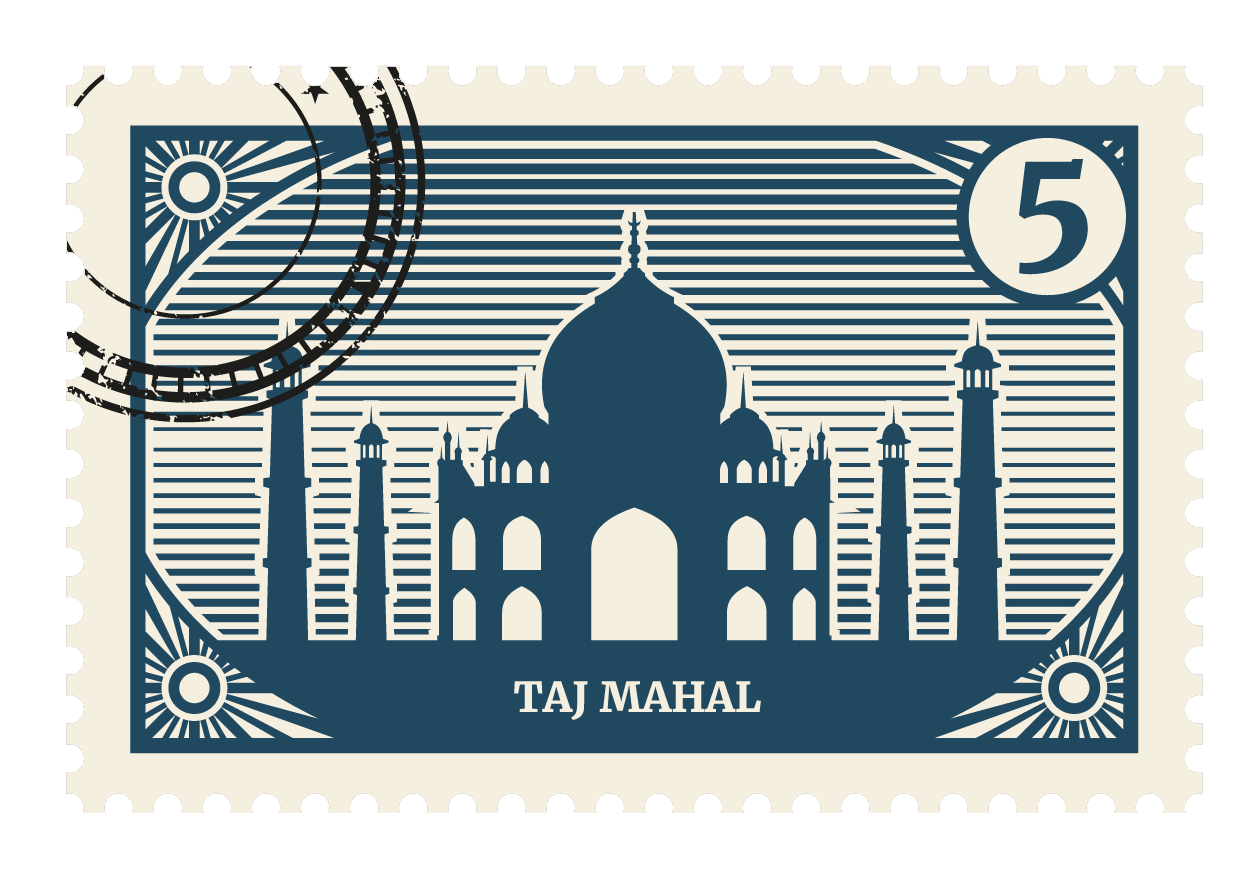
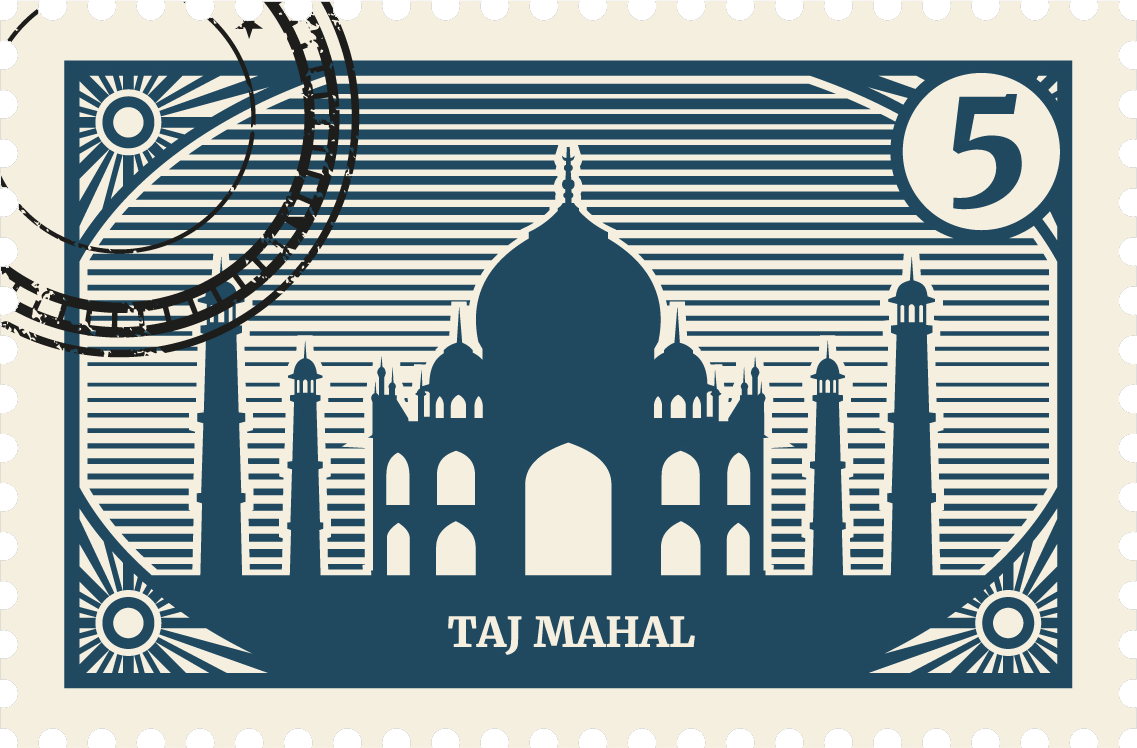
ajouter les photos des timbres dans html

diff --git a/catalogue.html b/catalogue.html
@@ -71,15 +71,15 @@
           <div class="subscribeButton">
             <label for="emailInput">Abonnez-vous à l'infolettre</label>
             <input type="email" id="emailInput" placeholder="Courriel" />
-            <button id="subscribeButton"> Enter </button>
+            <button id="subscribeButton">Enter</button>
           </div>
         </aside>
         <section class="catalogue">
           <section class="grid-cards catalogue-encheres">
             <div class="card">
-              <div class="card__title"><h2>Titre</h2></div>
+              <div class="card__title"><h2>USA</h2></div>
               <div class="card__image">
-                <img src="/assets/img/logos/logoLord.png" alt="" />
+                <img src="/assets/img/stamp/usa.png" alt="" />
               </div>
               <div class="card__id">Id:<small>878787878</small></div>
               <div class="card__prix">Prix: <small>8950$</small></div>
@@ -91,24 +91,9 @@
               </div>
             </div>
             <div class="card">
-              <div class="card__title"><h2>Titre</h2></div>
+              <div class="card__title"><h2>Czech-Republic</h2></div>
               <div class="card__image">
-                <img src="/assets/img/logos/logoLord.png" alt="" />
-              </div>
-              <div class="card__id">Id:<small>878787878</small></div>
-              <div class="card__prix">Prix: <small>8950$</small></div>
-              <div class="hourglass">
-                <div class="card__temps">
-                  Temps restant: <small> 6h39min</small>
-                </div>
-                <i class="fa-regular fa-hourglass-half"></i>
-              </div>
-            </div>
-
-            <div class="card">
-              <div class="card__title"><h2>Titre</h2></div>
-              <div class="card__image">
-                <img src="/assets/img/logos/logoLord.png" alt="" />
+                <img src="/assets/img/stamp/czech-republic.png" alt="" />
               </div>
               <div class="card__id">Id:<small>878787878</small></div>
               <div class="card__prix">Prix: <small>8950$</small></div>
@@ -121,9 +106,9 @@
             </div>
 
             <div class="card">
-              <div class="card__title"><h2>Titre</h2></div>
+              <div class="card__title"><h2>London</h2></div>
               <div class="card__image">
-                <img src="/assets/img/logos/logoLord.png" alt="" />
+                <img src="/assets/img/stamp/england-london.png" alt="" />
               </div>
               <div class="card__id">Id:<small>878787878</small></div>
               <div class="card__prix">Prix: <small>8950$</small></div>
@@ -136,9 +121,9 @@
             </div>
 
             <div class="card">
-              <div class="card__title"><h2>Titre</h2></div>
+              <div class="card__title"><h2>Navajo</h2></div>
               <div class="card__image">
-                <img src="/assets/img/logos/logoLord.png" alt="" />
+                <img src="/assets/img/stamp/navajo.png" alt="" />
               </div>
               <div class="card__id">Id:<small>878787878</small></div>
               <div class="card__prix">Prix: <small>8950$</small></div>
@@ -151,9 +136,9 @@
             </div>
 
             <div class="card">
-              <div class="card__title"><h2>Titre</h2></div>
+              <div class="card__title"><h2>Taj-Mahal</h2></div>
               <div class="card__image">
-                <img src="/assets/img/logos/logoLord.png" alt="" />
+                <img src="/assets/img/stamp/taj-mahal.png" alt="" />
               </div>
               <div class="card__id">Id:<small>878787878</small></div>
               <div class="card__prix">Prix: <small>8950$</small></div>
@@ -166,23 +151,9 @@
             </div>
 
             <div class="card">
-              <div class="card__title"><h2>Titre</h2></div>
+              <div class="card__title"><h2>San-Francisco</h2></div>
               <div class="card__image">
-                <img src="/assets/img/logos/logoLord.png" alt="" />
-              </div>
-              <div class="card__id">Id:<small>878787878</small></div>
-              <div class="card__prix">Prix: <small>8950$</small></div>
-              <div class="hourglass">
-                <div class="card__temps">
-                  Temps restant: <small> 6h39min</small>
-                </div>
-                <i class="fa-regular fa-hourglass-half"></i>
-              </div>
-            </div>
-            <div class="card">
-              <div class="card__title"><h2>Titre</h2></div>
-              <div class="card__image">
-                <img src="/assets/img/logos/logoLord.png" alt="" />
+                <img src="/assets/img/stamp/san-francisco.png" alt="" />
               </div>
               <div class="card__id">Id:<small>878787878</small></div>
               <div class="card__prix">Prix: <small>8950$</small></div>
@@ -195,9 +166,23 @@
             </div>
 
             <div class="card">
-              <div class="card__title"><h2>Titre</h2></div>
+              <div class="card__title"><h2>Republic of india</h2></div>
               <div class="card__image">
-                <img src="/assets/img/logos/logoLord.png" alt="" />
+                <img src="/assets/img/stamp/republic-of-india.png" alt="" />
+              </div>
+              <div class="card__id">Id:<small>878787878</small></div>
+              <div class="card__prix">Prix: <small>8950$</small></div>
+              <div class="hourglass">
+                <div class="card__temps">
+                  Temps restant: <small> 6h39min</small>
+                </div>
+                <i class="fa-regular fa-hourglass-half"></i>
+              </div>
+            </div>
+            <div class="card">
+              <div class="card__title"><h2>Parthenon</h2></div>
+              <div class="card__image">
+                <img src="/assets/img/stamp/parthenon.png" alt="" />
               </div>
               <div class="card__id">Id:<small>878787878</small></div>
               <div class="card__prix">Prix: <small>8950$</small></div>
@@ -210,9 +195,9 @@
             </div>
 
             <div class="card">
-              <div class="card__title"><h2>Titre</h2></div>
+              <div class="card__title"><h2>New York</h2></div>
               <div class="card__image">
-                <img src="/assets/img/logos/logoLord.png" alt="" />
+                <img src="/assets/img/stamp/ny.png" alt="" />
               </div>
               <div class="card__id">Id:<small>878787878</small></div>
               <div class="card__prix">Prix: <small>8950$</small></div>
@@ -225,9 +210,9 @@
             </div>
 
             <div class="card">
-              <div class="card__title"><h2>Titre</h2></div>
+              <div class="card__title"><h2>London</h2></div>
               <div class="card__image">
-                <img src="/assets/img/logos/logoLord.png" alt="" />
+                <img src="/assets/img/stamp/london.png" alt="" />
               </div>
               <div class="card__id">Id:<small>878787878</small></div>
               <div class="card__prix">Prix: <small>8950$</small></div>
@@ -240,9 +225,24 @@
             </div>
 
             <div class="card">
-              <div class="card__title"><h2>Titre</h2></div>
+              <div class="card__title"><h2>Forbidden City</h2></div>
               <div class="card__image">
-                <img src="/assets/img/logos/logoLord.png" alt="" />
+                <img src="/assets/img/stamp/forbidden-city.png" alt="" />
+              </div>
+              <div class="card__id">Id:<small>878787878</small></div>
+              <div class="card__prix">Prix: <small>8950$</small></div>
+              <div class="hourglass">
+                <div class="card__temps">
+                  Temps restant: <small> 6h39min</small>
+                </div>
+                <i class="fa-regular fa-hourglass-half"></i>
+              </div>
+            </div>
+
+            <div class="card">
+              <div class="card__title"><h2>Coliseum</h2></div>
+              <div class="card__image">
+                <img src="/assets/img/stamp/coliseum.png" alt="" />
               </div>
               <div class="card__id">Id:<small>878787878</small></div>
               <div class="card__prix">Prix: <small>8950$</small></div>

diff --git a/assets/css/components/card.css b/assets/css/components/card.css
@@ -16,6 +16,9 @@
       color: var(--color-failure);
     }
   }
+  & h2 {
+    font-size: var(--police-s);
+  }
   & .card__id,
   .card__prix {
     padding: var(--spacing-xs);

diff --git a/assets/css/components/filtre.css b/assets/css/components/filtre.css
@@ -5,7 +5,6 @@
   flex-direction: column;
   justify-content: space-between;
 
-
   & .contenu-filter {
     padding: var(--spacing-s);
   }
